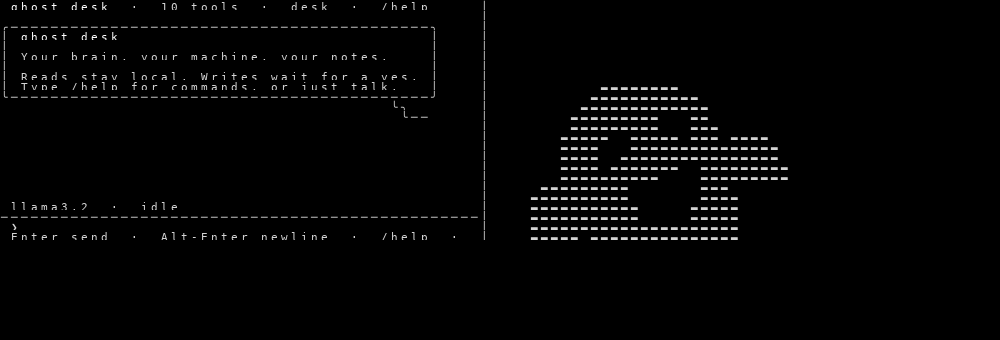
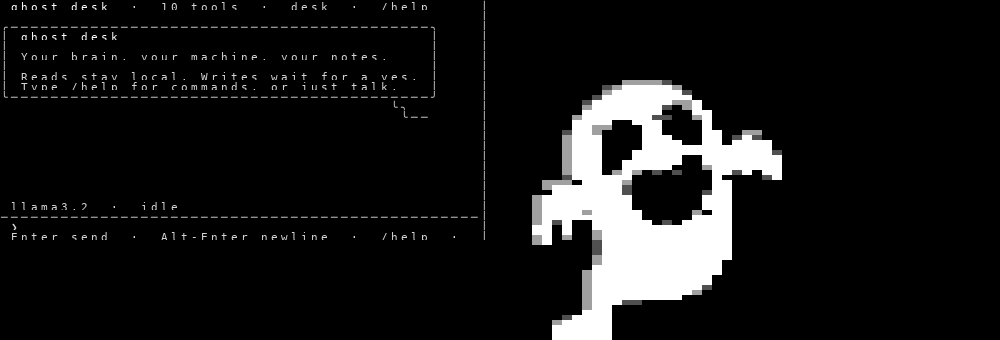
Pixel-art ghost: hard-quantized portrait, real picture now opt-in
The PNG renders as crisp pixel art by default: quantized to the
cartoon's own four tones (black lines, two shading grays, white body),
nearest-neighbor, no blur or speckle. GHOST_DESK_IMG=kitty|iterm2 opts
back into the literal picture on image-capable terminals.

Changed region(s): [[0.527, 0.2353, 0.806, 1.0]]

diff --git a/src/ghost_desk/face.py b/src/ghost_desk/face.py
@@ -14,8 +14,19 @@ _BLACK = 16
 _DOT = 64
 # White-on-gray art needs a higher cut so the background drops to black.
 _DOT_BY_ASSET: dict[str, int] = {}
-# Cartoon art renders smooth: no dot threshold, background keyed out.
-_SMOOTH_ASSETS = {"ghost.png"}
+# Pixel art: hard-quantized to the cartoon's own tones, nearest-neighbor.
+_PIXEL_ART_ASSETS = {"ghost.png"}
+
+
+def _pixel_tone(v: int) -> int:
+    """The cartoon's palette: black lines, two shading grays, white body."""
+    if v <= 85:
+        return 0
+    if v <= 150:
+        return 80
+    if v <= 205:
+        return 160
+    return 255
 _BLOCK_CACHE: dict[tuple, list] = {}
 _ANSI_CACHE: dict[tuple, list[str]] = {}
 
@@ -44,11 +55,11 @@ def _load(path: Path, width: int, height: int):
     image = Image.open(path).convert("RGB")
     image = _crop_subject(image).convert("L")
     target_w, target_h = width, height * 2
-    if name in _SMOOTH_ASSETS:
-        # Cartoon art: lift the flat gray background to black, keep the
-        # smooth shading and clean outlines. No dot threshold.
-        image = image.point(lambda v: 0 if v <= 85 else min(255, int((v - 85) * 1.15)))
-        return image.resize((target_w, target_h), Image.Resampling.LANCZOS)
+    if name in _PIXEL_ART_ASSETS:
+        # Pixel art: quantize to the cartoon's tones, then nearest-neighbor
+        # so every pixel lands hard. No blur, no speckle.
+        image = image.point(_pixel_tone)
+        return image.resize((target_w, target_h), Image.Resampling.NEAREST)
     # Dots to pure white first: each output cell then measures dot density,
     # which survives the downscale instead of blurring into mush.
     dot = _DOT_BY_ASSET.get(name, _DOT)

diff --git a/src/ghost_desk/images.py b/src/ghost_desk/images.py
@@ -1,10 +1,8 @@
-"""The literal ghost picture, shown as a real image when the terminal can.
+"""The literal ghost picture, for terminals that can show real images.
 
-Kitty graphics protocol first, iTerm2 inline images second. Anything else
-falls back to the half-block portrait. Detection is environment-based with
-a manual override; a wrong guess never breaks the session.
-
-Override with GHOST_DESK_IMG: auto (default), kitty, iterm2, or off.
+Kitty graphics protocol or iTerm2 inline images. Opt-in only via
+GHOST_DESK_IMG=kitty|iterm2; the default everywhere is the pixel-art
+portrait. A wrong guess never breaks the session.
 """
 
 from __future__ import annotations
@@ -20,21 +18,14 @@ _IMAGE_ID = 31
 
 
 def detect_protocol() -> str | None:
-    """Return 'kitty', 'iterm2', or None."""
-    override = os.environ.get("GHOST_DESK_IMG", "auto").strip().lower()
+    """Return 'kitty', 'iterm2', or None.
+
+    The real picture is opt-in only: GHOST_DESK_IMG=kitty|iterm2.
+    Everything else (including unset) gets the pixel-art portrait.
+    """
+    override = os.environ.get("GHOST_DESK_IMG", "").strip().lower()
     if override in ("kitty", "iterm2"):
         return override
-    if override in ("off", "none", "no", "0"):
-        return None
-    if os.environ.get("KITTY_WINDOW_ID"):
-        return "kitty"
-    term_program = os.environ.get("TERM_PROGRAM", "")
-    if term_program in ("ghostty", "WezTerm"):
-        return "kitty"
-    if term_program in ("iTerm.app", "vscode"):
-        return "iterm2"
-    if "kitty" in os.environ.get("TERM", ""):
-        return "kitty"
     return None
 
 

diff --git a/tests/test_images.py b/tests/test_images.py
@@ -18,34 +18,24 @@ def test_detect_nothing_by_default():
     assert images.detect_protocol() is None
 
 
-def test_detect_kitty_window_id(monkeypatch):
+def test_detect_ignores_terminal_env(monkeypatch):
+    # The real picture is opt-in only; terminal sniffing no longer enables it.
     monkeypatch.setenv("KITTY_WINDOW_ID", "1")
-    assert images.detect_protocol() == "kitty"
-
-
-def test_detect_term_program(monkeypatch):
+    assert images.detect_protocol() is None
     monkeypatch.setenv("TERM_PROGRAM", "ghostty")
-    assert images.detect_protocol() == "kitty"
-    monkeypatch.setenv("TERM_PROGRAM", "WezTerm")
-    assert images.detect_protocol() == "kitty"
+    assert images.detect_protocol() is None
     monkeypatch.setenv("TERM_PROGRAM", "iTerm.app")
-    assert images.detect_protocol() == "iterm2"
-    monkeypatch.setenv("TERM_PROGRAM", "vscode")
-    assert images.detect_protocol() == "iterm2"
-
-
-def test_detect_term_kitty(monkeypatch):
+    assert images.detect_protocol() is None
     monkeypatch.setenv("TERM", "xterm-kitty")
-    assert images.detect_protocol() == "kitty"
+    assert images.detect_protocol() is None
 
 
-def test_detect_override(monkeypatch):
+def test_detect_explicit_opt_in(monkeypatch):
     monkeypatch.setenv("GHOST_DESK_IMG", "kitty")
     assert images.detect_protocol() == "kitty"
     monkeypatch.setenv("GHOST_DESK_IMG", "iterm2")
     assert images.detect_protocol() == "iterm2"
     monkeypatch.setenv("GHOST_DESK_IMG", "off")
-    monkeypatch.setenv("KITTY_WINDOW_ID", "1")
     assert images.detect_protocol() is None
 
 

diff --git a/tests/test_screen.py b/tests/test_screen.py
@@ -48,3 +48,16 @@ def test_session_keeps_the_ghost_on_the_right():
     assert chrome["header"] is True
     still = render_blocks(width=chrome["ghost_width"], height=chrome["ghost_height"], bob=0)
     assert still
+
+
+def test_portrait_is_pixel_art_with_hard_tones():
+    import re
+
+    rows = render_blocks(width=30, height=38, bob=0)
+    colors = set()
+    for row in rows:
+        for style, _ch in row:
+            colors.update(re.findall(r"#([0-9a-f]{6})", style))
+    # The cartoon's own palette: black lines, two shading grays, white body.
+    assert colors <= {"000000", "505050", "a0a0a0", "ffffff"}, colors
+    assert "ffffff" in colors  # the body is actually there

diff --git a/README.md b/README.md
@@ -116,14 +116,15 @@ build a one-page site for you@example.com
 Ghost Desk must show a plan and write nothing until you approve. That's the
 whole product in one sentence.
 
-## The ghost picture
+## The ghost
 
-The mascot is a real picture, not ASCII art. On terminals that can show
-images — Kitty, Ghostty, WezTerm, iTerm2, VS Code's terminal — Ghost Desk
-displays the actual PNG in the side pane (and on the boot screen). Everywhere
-else it falls back to a half-block portrait automatically.
+The mascot is pixel art drawn from the ghost PNG: hard-quantized to the
+cartoon's own tones (black lines, two shading grays, white body), so every
+pixel lands crisp. No blur, no speckle.
 
-Override with `GHOST_DESK_IMG`: `auto` (default), `kitty`, `iterm2`, or `off`.
+Terminals that can show real images (Kitty, Ghostty, WezTerm, iTerm2, VS Code)
+can opt into the literal picture instead with `GHOST_DESK_IMG=kitty` or
+`GHOST_DESK_IMG=iterm2`.
 
 ## Develop
 
